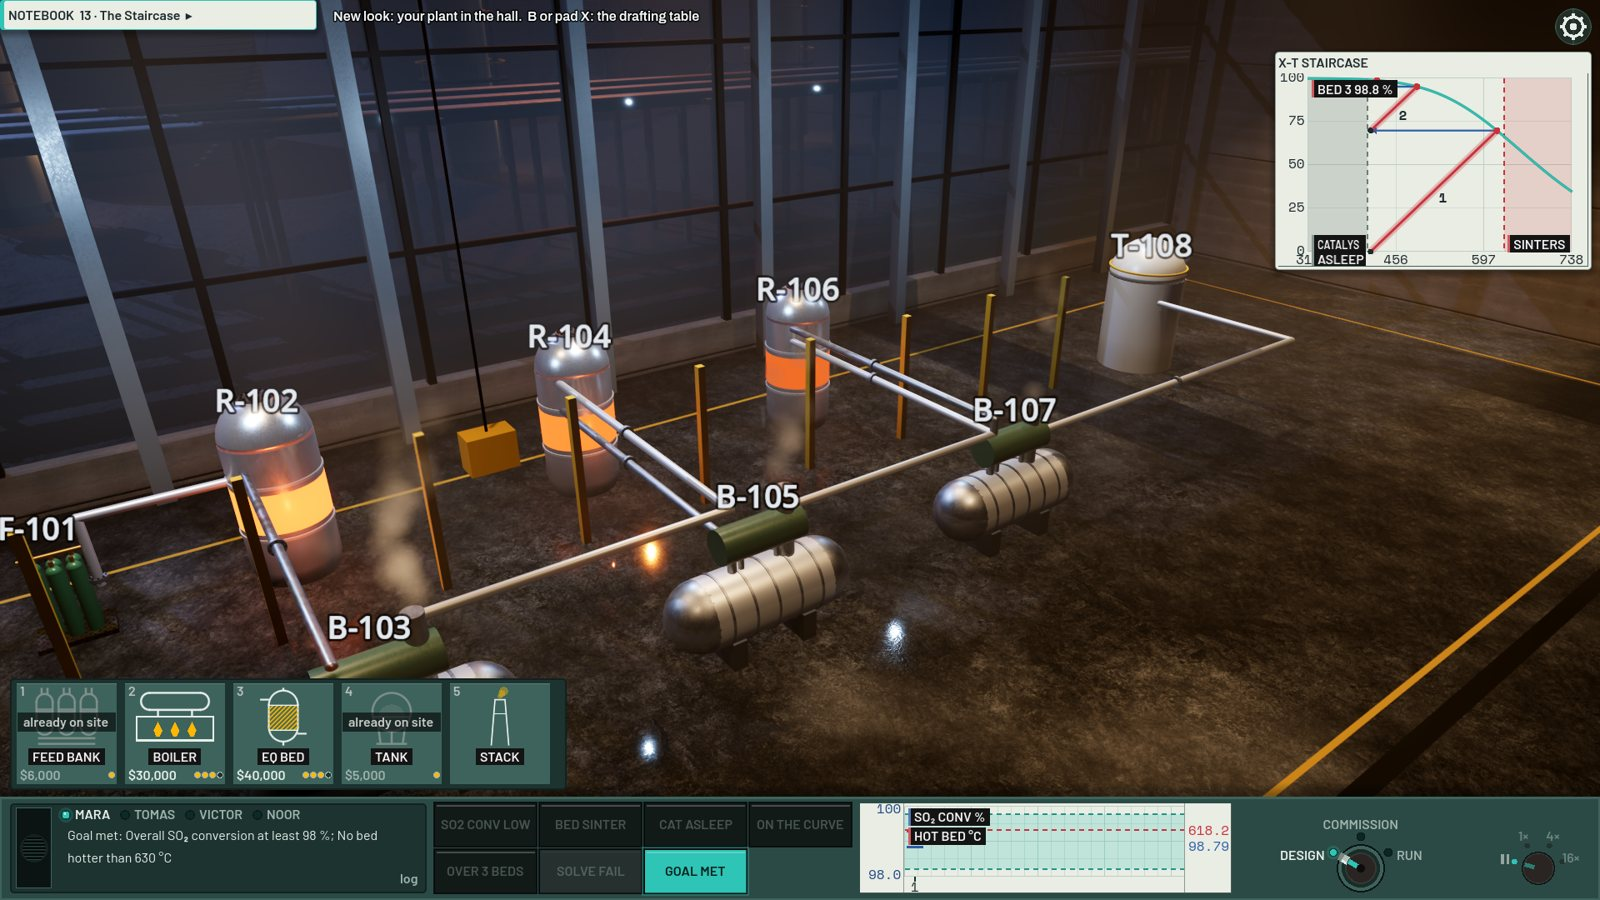
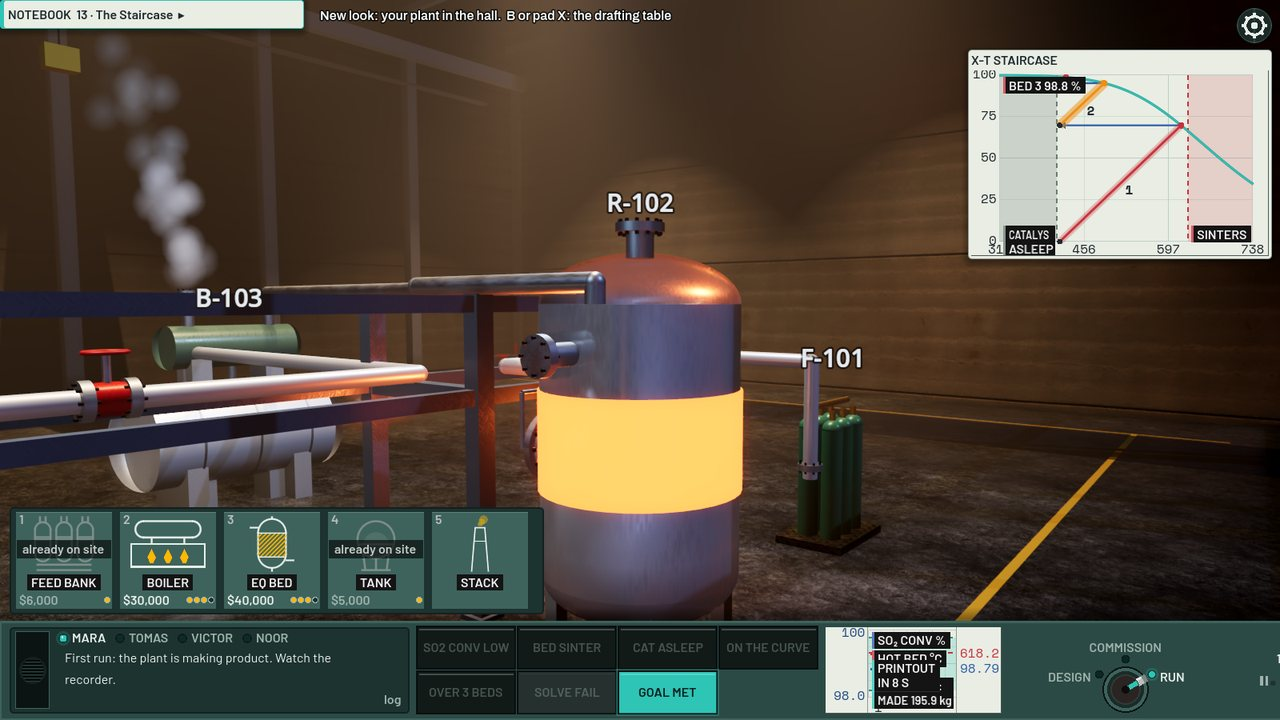
0.11.0 'The Bench in the new look' (LOOK2 phase C): version, CHANGELOG, CRITIQUE-0.11 with the owner-concerns audit, README and site lead with 0.11 new-look shots
Claude-Session: https://claude.ai/code/session_01LLtMdbo6QrqLGE18L1gpTt

diff --git a/site/index.html b/site/index.html
@@ -49,13 +49,13 @@
       <p class="tagline">Run a chemical plant where the chemistry is real.</p>
       <p class="lede">Build it, turn the key, and see if it holds.</p>
       <div class="cta">
-        <a class="btn go" id="dl-main" href="https://github.com/blackmetaltech/equilibrium/releases/latest">Download <small id="dl-main-sub">v0.10.1</small></a>
+        <a class="btn go" id="dl-main" href="https://github.com/blackmetaltech/equilibrium/releases/latest">Download <small id="dl-main-sub">v0.11.0</small></a>
         <a class="btn" href="wiki/">Player wiki</a>
       </div>
       <p class="fine" id="dl-note">Free. Source on <a href="https://github.com/blackmetaltech/equilibrium">GitHub</a>.</p>
     </div>
     <figure class="hero-shot">
-      <a href="assets/shots/rig.jpg" class="zoom"><img src="assets/shots/rig.jpg" alt="L14 Two Flasks: the piston flask of brown N2O4 with its gauge reading 8.83 bar, the argon bottle, the twin flask and the RUN lever" width="1600" height="900"></a>
+      <a href="assets/shots/rig.jpg" class="zoom"><img src="assets/shots/rig.jpg" alt="L14 Two Flasks: the bright private lab, the piston flask of brown N2O4 on its dais, the runs-left card and the Call box" width="1600" height="900"></a>
       <figcaption>L14 Two Flasks: real N₂O₄ in a piston flask, the textbook's twin beside it.</figcaption>
     </figure>
   </div>
@@ -92,10 +92,10 @@
       <figcaption>An animated capture from the game: halve the volume and the brown darkens, then fades part of the way back as N₂O₄ re-forms.</figcaption>
     </figure>
     <div>
-      <p class="kicker">New in 0.10</p>
-      <h2>Chapter 3 in the new look</h2>
-      <p>Chapter 3 and the prologue are in a 3D hall and lab. Your plant stands in the hall once it runs.</p>
-      <p>Other chapters keep the classic look. A pad works throughout the new look.</p>
+      <p class="kicker">New in 0.11</p>
+      <h2>Chapters 1 and 3 in the new look</h2>
+      <p>The prologue, chapter 1 and chapter 3 are in a 3D hall and lab. Your plant stands in the hall once it runs.</p>
+      <p>Other chapters keep the classic look. A pad works everywhere, the drafting table too.</p>
     </div>
   </div>
 </section>
@@ -105,7 +105,7 @@
     <p class="kicker">Campaign</p>
     <h2>A prologue, ten chapters and a Career</h2>
     <div class="gallery">
-      <figure><a href="assets/shots/lab.jpg" class="zoom"><img src="assets/shots/lab.jpg" alt="The L14 lab: benches of coloured glassware, glass columns and the rig on a railed plinth" width="1600" height="900" loading="lazy"></a><figcaption><b>Your bench, after hours.</b> The L14 lab.</figcaption></figure>
+      <figure><a href="assets/shots/lab.jpg" class="zoom"><img src="assets/shots/lab.jpg" alt="L02, chapter 1: your sulfur burner plant in the hall, the burner glowing, the stack and its flue analyser" width="1600" height="900" loading="lazy"></a><figcaption><b>The burner house.</b> Chapter 1 in the hall.</figcaption></figure>
       <figure><a href="assets/shots/l10-printout.jpg" class="zoom"><img src="assets/shots/l10-printout.jpg" alt="L10 The Wall: the player's commissioned plant in the hall, the compressor, the converter glowing at its window, the separator and the tank" width="1600" height="900" loading="lazy"></a><figcaption><b>L10 The Wall.</b> Your plant in the hall once it runs.</figcaption></figure>
       <figure><img src="assets/shots/night-trip.gif" alt="A recording of Night Shift: the cooling water pump trips, nobody turns the cooler, and the interlock takes the loop down to the flare" width="640" height="360" loading="lazy"><figcaption><b>Night Shift.</b> Leave the cooler alone and the interlock trips the loop.</figcaption></figure>
     </div>

diff --git a/docs/CRITIQUE-0.11.md b/docs/CRITIQUE-0.11.md
@@ -1,0 +1,71 @@
+# CRITIQUE 0.11: "The Bench in the new look" (2026-11-23)
+
+This was LOOK2 phase C. Chapter 1 (L01-L04) joins the drafting table and the 3D hall. L14 gets a real goal. The drafting table plays by pad. The new look has sound. Decision records D-C1 to D-C9 are in `docs/LOOK2.md`.
+
+## The gate (factory/briefs/LOOK2.md, phase C)
+| Gate item | Result |
+|---|---|
+| Close the open gaps in CRITIQUE-0.10, worst first | **Mostly met.** Closed: L14's win (D-C1, D-C8, D-C9); the printout wait now has a countdown; the hover label over the Call box; the L11 silent drags (two causes fixed, regression tests); the drafting table by pad. Still open: the L12/L13 brief text clipping and the L13 bed warning cut (not reproduced; the playtester did not reach L13). |
+| The next chapter in the new look, with the reason written down | **Met.** Chapter 1 (D-C2, Priya; D-C4). It adds a burner, a stack with a flue analyser and a bench reactor to the hall. There is no separate QC-lab room (cut, written down). |
+| Sound and pad in the new look; sources in ASSETS.md; say who has listened | **Met.** Sound is synthesised and has no files (docs/ASSETS.md). The plant bed follows live state, and L14's controls click. **No human has listened to the mix.** Pad: `pad_build_flow` wins L01 and L10 with joypad events only. Not covered by pad: the Career's yearly cards, the L30 loop knobs and the Light theme. |
+| Hand play on the GPU | **Met.** `scripts/desk-gpu.sh`: Forward+ on the RTX 4090, presented into the tester's own Xvfb (confirmed in the log). The frame cost is about 45 ms, set by the readback; the GPU takes 8 ms. Lena played L01, L02, L03 and L14 by mouse. |
+| Site and README: no classic shots above the fold or in "how it plays"; paragraphs of one or two plain sentences | **Met.** The site's hero, the "how it plays" steps and the README lead are all new-look shots. Classic galleries are labelled "(classic look)". The README's download section no longer says "no public release". |
+| Art toward shipped sims; Sigrid re-scores at the end | **Re-scored: average 4.9.** See below. Her worst finding is real and was fixed after she scored: every hall shot she saw was the wide view, because of a camera-spec bug. |
+| The load-sensitive tests made robust without loosening | **Two of three.** The engine timing test is fixed, and pad_build_flow (new) is isolated from machine gamepads (D-C7). build_guide_flow is **not explained**: it passed in the last three full runs, and its check now names what took the click. fix18_flow is a further intermittent failure, found this layer and present in phase B runs (1 run in 2 alone at one point; 3 passes in a row since). It gets the same diagnostic. |
+| Tests and flows green | **Met on the release candidate.** `scripts/flows.sh`: 48 of 48 flows OK, build_guide_flow and fix18_flow included. Vitest: 2426 passed, 2 skipped. The timing test reports CPU p95 5.7 ms against wall p95 47.0 ms in the same run. |
+| iGPU low tier usable | **Met.** Integrated Radeon at 1280x800, compat tier: L14 and L00 run at 33.3 ms (30 fps cap; GPU 15-16 ms) and the L13 hall at 13.2 ms. |
+
+## Critique (scored once)
+| Critic | Score | Strongest point | Done after scoring |
+|---|---|---|---|
+| Sigrid (art) | L14 lab 7 (was 5), L13 hall 4.5 (was 3.5), L02 4, L03 4.5, analyser 4.5, L00 6.5; average 4.9 | The hall camera is not low and close, so the vessel kit is invisible. Two UI languages. World text under 16 px. A white hot spot on the floor. Primitive materials. | **The camera:** the spec "nbclose plant" never reached the plant preset, so every hall shot had been wide. "Plant" is now a hero view on a reactor, bed or burner. **The stack:** rails are steel, not yellow halos. **The analyser:** a grey cabinet with a bezel. **L14:** a pale epoxy plinth. **Not re-scored after these fixes.** |
+| Mateo (design) | L14 fun 6, clarity 7, tension 3; chapter 1 fun 6, clarity 5, tension 5 | Ten runs is a stroll: the start reading plus "hotter reads higher" win in two. | Six runs, shared with the tests (D-C8; he asked for five). Header comment fixed. **Open:** the classic all-caps status strip; recorder labels over the trace. |
+| Anjali (domain) | no errors | The analyser was wet basis, unlabelled, and hid the H2O; CO was shown in %. | All fixed: "mol % wet", H2O shown, CO in ppm. The L14 why line names both causes, T* is quoted to the kelvin, and the dead strings are gone. |
+| Naledi (educator) | — | L14 could be won by bisecting T, with no equilibrium idea in it. | **D-C9:** the job needs one argon test on record. The lesson states the three Le Chatelier outcomes, and the coach no longer asks about runs that did not happen. Mateo wanted the test lines cut; I sided with Naledi. |
+
+## Playtest (Lena, 16, mouse, RTX 4090 in her own display)
+- **Fixed:**
+  - L03's mixer-to-burner pipe never connected: a drag from the pipe-in-hand's own outlet was ignored (`pipe_drag_flow` case 6).
+  - The countdown was unlabelled or cut.
+  - L14 refunded runs after an edit.
+  - The coach kept asking for the volume test after the goal.
+  - The CLAMP sign was cut by the HUD, and the name line was unreadable on the bright floor.
+  - The hall said "nothing built yet" over a drawn plant.
+  - L02's Call it did not say it is graded on the first run.
+- **Not a bug:** her 3 K per scroll tick was the harness. `desk.sh wheel` sends three clicks.
+- **Open:**
+  - Pipes route in big loops; port dots are small.
+  - Esc with no pipe pending pauses (by design).
+  - "PA…" is cut at the bottom right of the table at 1600x900.
+  - Hall tag Z-106 is under the top banner.
+  - The briefing is a wall of text with duplicated "Call it" lines and "tap to enter" on a mouse game.
+  - The analyser is unreadable from the wide view (the stack camera reads it).
+
+## Incidents
+- My programmer helper ran `pkill -x godot` to clear its own waits. That kills every Godot of the user, so other games' runs at about 07:54 may have died. It is noted on the board.
+
+## Owner-concerns audit (games-bible 05)
+| Group | Pass/Fail | Evidence |
+|---|---|---|
+| A a game, not SaaS | Mostly | L14 is a real experiment with a budget and a decision (D-C8, D-C9). Chapter 1 still sits under the classic all-caps status strip (Mateo). |
+| B its own soul | Pass | The private lab and the night plant hall. The burner house and the analyser are ours, drawn from engine state. |
+| C realism, proportion, texture | Mostly | Vessel kit and hero camera added. Sigrid averages 4.9; untextured drums and flat stack colours remain. |
+| D readability | Mostly | layout_flow OK. Sigrid measured world text under 16 px (flask placard about 8 px; analyser 4 px in the wide view). |
+| E every control works | Mostly | The drafting table works by pad (pad_build_flow), and two silent pipe-drag causes are fixed. The Career cards and the L30 knobs are not covered by pad. |
+| F scroll and input stability | Pass | Dialogs keep the pad focus. The flows are isolated from machine gamepads. |
+| G device classes | Mostly | iGPU at 30 fps on the compat tier. Desktop only for the new pad work; handheld and phone not re-checked. |
+| H learnable by an impatient first-timer | Mostly | Lena found the L14 goal in two runs once the goal line said what to do. The briefing is still a wall of text. |
+| I logic integrity | Pass | Anjali found no physics errors. The analyser numbers check (11.0 + 10.0 = 21 % for L02). Lab time is counted across restarts. |
+| J depth to employable | Mostly | L14 now asks for a measurement plan (bracketing with a budget) plus a mechanism test. Content in other chapters is unchanged. |
+| K fun and long-term play | Mostly | L14 tension raised (Mateo scored it 3 at ten runs; six runs plus the argon gate). Not re-scored. |
+| L performance | Pass | 4090 ultra; iGPU compat at 30 fps. |
+| M sound | Partial | First pass: the bed follows state. Nobody has listened, and the sound is not positional. |
+| N saves and quitting | Pass | No save format change; carryBurns was already in the save. |
+| O release hygiene | Pass | CHANGELOG section, decision records, wiki regenerated, tag through the full gate. |
+| P visible status | Pass | Board lines at the start, midway and the incident; this file lists every failed or open item. |
+| Q cost, machine, tidiness | Mostly | One helper at a time, and GPU shots under the shared lock. The helper's `pkill -x godot` broke the tidiness rule. |
+| R story and world | Pass | Unchanged voices; the lab and hall are places. |
+| S cute that teaches | n/a | No change to cute mode. |
+| U README, screenshots, releases | Pass | README and site lead with new-look shots of 0.11. |
+
+— Ingrid Solheim, Game Lead

diff --git a/CHANGELOG.md b/CHANGELOG.md
@@ -3,14 +3,40 @@
 All notable changes to EQUILIBRIUM. The release workflow publishes the section whose heading contains `[x.y.z]`.
 Each version is one themed layer (the GIGAWATT pattern). Repos are private; no public release without the owner's go-ahead.
 
-## [Unreleased] · "Pad on the drafting table" (the classic build view is playable by gamepad alone)
+## [0.11.0] - 2026-11-23 · "The Bench in the new look" (LOOK2 phase C)
+### Changed
+- **L14 Two Flasks has a real goal.** Find the temperature where your 1 L flask reads the book's 9.15 bar. Run one argon test too, to show what shifts it. You have six runs, the tests included, counted across restarts. All three Le Chatelier tests are a star, and the Kp call is another (D-C1, D-C8, D-C9).
+- **Chapter 1 is new look.** L01-L04 use the drafting table and the hall, like chapter 3. The Works Map marks chapter 1 "New look" (D-C2, D-C4).
+- **The hall flip is R3 on a pad.** X turns a part on the drafting table now; X still returns from the hall (D-C5).
+- **The L14 T wheel steps 1 K by pad and scroll.** At 5 K steps the goal could not be reached by pad (D-C6).
+- **Site and README** cut to one or two short sentences per paragraph. The download button names the version.
 ### Added
+- **Real vessel models in the hall:** dished heads, clad shells with seams, flanged nozzles, manways, skirts and legs, caged ladders and ring platforms, saddled drums, gate valves and a two-level pipe rack. Pipes lie on the rack.
+- **A burner** whose flame follows its outlet temperature, and **a stack with a flue analyser** that reads the engine's O2, CO2, SO2 and CO.
+- **Downlights over your plant** in the hall; the cameras frame the plant you drew, low and close.
+- **The L14 lab gleams:** a pale polished epoxy floor, white upper walls, a light ceiling with LED lines.
+- **The recorder counts down to the printout** on every first run.
+- `scripts/desk-gpu.sh`: hand play rendered on the GPU inside the tester's own virtual display.
+- **The drafting table by pad alone** (D-C5): the classic build view is playable from the notebook to the win with a gamepad.
 - **A pad hand for the plot** (`godot/ui/pad_plot.gd`). Every unit and every free port gets a focus target at its place on the screen. The D-pad moves between them, A on a unit opens its faceplate and puts the focus on its first knob (the D-pad then walks the plate's chips and knobs; a knob used to keep the arrows and never let go), A on a port starts or ends a pipe through the same `port_clicked` the mouse uses (so the piping rules and refusals are the only rules), B puts away the pipe, plate or selection. Mouse players never see it.
 - **A part by pad.** LB/RB walk the tray (a folded tray opens first), A takes the part, the D-pad (or the left stick) moves the cursor, A places, X turns, B puts it back. The cursor starts on the nearest free spot, so the ghost is green, not a red slab.
 - **Dialogs keep the focus.** In the notebook, a brief or a keypad the focus cannot leave to the tray behind, a D-pad press with nowhere to go scrolls the page, and the right stick scrolls it.
 - **The key and the speed dial by pad.** A on the focused key turns it, A on the focused dial steps it, Back steps it. Both dials took focus only if they were built after the first pad press.
 - `godot/tests/pad_build_flow.gd`: L01 and L10 played from the notebook to the win with real joypad events only. `godot/tests/pipe_drag_flow.gd`: the mouse pipe-drag regression below.
+- The flue analyser, the downlights and the plant bed sounds are new; no human has listened to the sound (docs/ASSETS.md).
 ### Fixed
+- A drag from the pipe-in-hand's own outlet did nothing (L03: mixer to burner never connected); `pipe_drag_flow` case 6.
+- Editing L14 between runs refunded lab time (runs left went 9 to 10).
+- The L14 coach kept asking for the volume test after the goal was met.
+- The printout countdown was cut ("MAD", "PRINTOUT IN 18"); it has its own recorder line.
+- The hall banner said "nothing built yet" over a drawn plant; it says "not commissioned yet".
+- The CLAMP sign was cut by the HUD in the wide view; it shows close up only. The control name line sits on a dark plate.
+- L02's Call it says it is graded on your first run.
+- The flue analyser says "mol % wet", shows H2O, and reads CO in ppm (Anjali).
+- The hall camera spec ignored "plant" when given with other words; "plant" is now a low hero view (Sigrid).
+- Flows are isolated from machine gamepads: another session's virtual pad pressed buttons inside the pad flows (`scripts/flows.sh`, D-C7).
+- The engine timing test failed under load: it timed the wall clock. It now times the thread's CPU, with the same 25 ms bound.
+- The control name line in the new look no longer sits on HUD cards.
 - LB/RB on the build screen opened the Codex behind the tray (the shell's drawer switch); the tray's own LB/RB and A also fought each other.
 - The placement cursor could not move along one axis with the camera at 45 degrees: sideways and forward input both picked the same axis (a stick or D-pad never went along x). Ties now go by the input's direction.
 - Back (speed dial) ran the shell's bare clock change, so the dial and the engine's clock disagreed, and did nothing useful in the hall after commissioning. It goes through the console now.

diff --git a/README.md b/README.md
@@ -1,16 +1,30 @@
 # ⚗ EQUILIBRIUM — run a chemical plant where the chemistry is real
 
-**[Releases](https://github.com/blackmetaltech/equilibrium/releases)** · **[Changelog](CHANGELOG.md)** · **[Critique](docs/CRITIQUE-0.10.md)** · **[Site](https://equilibrium.blackmetal.tech)** · **[Issues](https://github.com/blackmetaltech/equilibrium/issues)**
+**[Releases](https://github.com/blackmetaltech/equilibrium/releases)** · **[Changelog](CHANGELOG.md)** · **[Critique](docs/CRITIQUE-0.11.md)** · **[Site](https://equilibrium.blackmetal.tech)** · **[Issues](https://github.com/blackmetaltech/equilibrium/issues)**
 
 **Build a chemical plant and turn the key. Real chemistry decides if it works.**
 
 A **Godot 4.7** game with the chemistry engine in TypeScript.
 
-> **Alpha (0.10.1).** Chapter 3 and the prologue are in the new look; the rest is classic. Played on Linux; Windows untested.
+> **Alpha (0.11.0).** Chapters 1 and 3 and the prologue are in the new look; the rest is classic. Played on Linux; Windows untested.
 
 ![The title: the night plant hall in the new look, the menu on glass](docs/readme/title-new-look.jpg)
 
-## What's new in 0.10: chapter 3 in the new look
+## What's new in 0.11: chapter 1 in the new look
+
+![L14: the private lab, bright, with the twin flask on the dais](docs/readme/lab-gleam.jpg)
+
+**L14 has a real goal.** Find the temperature where your flask reads the book's 9.15 bar, and show why with one argon test. Six runs.
+
+**Chapter 1 joins the hall.** Your bench plant, the sulfur burner and the boiler stand in 3D once they run.
+
+| Your L13 plant in the hall: a catalyst bed glowing at its band, a boiler steaming behind | The flue analyser reads the engine's own gas, wet basis |
+|---|---|
+| ![chapter 3 hall](docs/readme/ch3-hall-vessels.jpg) | ![flue analyser](docs/readme/flue-analyser.jpg) |
+
+**Pad everywhere.** The drafting table now plays by gamepad alone. **Sound.** The plant hums, roars and hisses with its state; no human has listened yet.
+
+## What was new in 0.10: chapter 3 in the new look
 
 ![Two Flasks: halve the volume and the brown darkens at once, then fades part of the way back as N2O4 re-forms; argon at constant pressure thins it](docs/readme/colour-shift.gif)
 
